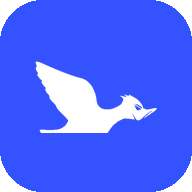
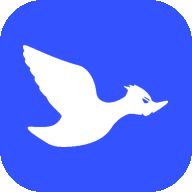
De hele eend
De iconen komen nu uit het volledige embleem, gesneden op de omtrek van de vorm
zelf in plaats van op een ingetypt kader. De bron gaat mee in de repo.

Claude-Session: https://claude.ai/code/session_01E8FeyyHmC5AiNKT8Le9tkN

diff --git a/scripts/maak-iconen.py b/scripts/maak-iconen.py
@@ -24,29 +24,34 @@ from PIL import Image, ImageDraw
 BLAUW = (0x34, 0x52, 0xFE)
 WIT = (255, 255, 255)
 
-# The duck sits in the middle of the badge; the ring of lettering around it is
-# a separate shape. Keep only the blob that covers the centre of the image.
-DREMPEL = 128
+# The duck sits in the middle of the badge. Whatever surrounds it — a ring of
+# lettering, or nothing at all — is judged against the colour of the border.
+AFSTAND = 60.0
 
 
 def inktmasker(bron: Image.Image) -> np.ndarray:
-    """True where there is ink: dark pixels, or opaque ones on a clear ground."""
+    """True where the drawing is, whichever way round the colours run.
+
+    A badge can be black on white, white on blue, or a shape on nothing. So the
+    ground is read from the border of the image and everything far enough from
+    that colour counts as drawing. That way the same code cuts out a dark duck
+    and a light one.
+    """
     rgba = bron.convert("RGBA")
-    arr = np.asarray(rgba).astype(np.int16)
+    arr = np.asarray(rgba).astype(np.float64)
     alpha = arr[:, :, 3]
-    grijs = arr[:, :, :3].mean(axis=2)
     if (alpha < 250).mean() > 0.05:
         return alpha > 128
-    return grijs < DREMPEL
+    rand = np.concatenate([arr[0, :, :3], arr[-1, :, :3], arr[:, 0, :3], arr[:, -1, :3]])
+    grond = np.median(rand, axis=0)
+    return np.linalg.norm(arr[:, :, :3] - grond, axis=2) > AFSTAND
 
 
-def grootste_blob_bij_midden(masker: np.ndarray) -> np.ndarray:
-    """The connected component nearest the centre, grown with a flood fill."""
+def _componenten(masker: np.ndarray) -> list[np.ndarray]:
+    """Every connected run of drawing, biggest first."""
     h, w = masker.shape
     bezocht = np.zeros_like(masker, dtype=bool)
-    beste: np.ndarray | None = None
-    beste_score = -1.0
-    mid = np.array([h / 2, w / 2])
+    gevonden: list[np.ndarray] = []
     ys, xs = np.nonzero(masker)
     for y0, x0 in zip(ys, xs):
         if bezocht[y0, x0]:
@@ -63,16 +68,41 @@ def grootste_blob_bij_midden(masker: np.ndarray) -> np.ndarray:
                     bezocht[ny, nx] = True
                     blob[ny, nx] = True
                     stapel.append((ny, nx))
-        oppervlak = blob.sum()
-        by, bx = np.nonzero(blob)
-        zwaartepunt = np.array([by.mean(), bx.mean()])
-        afstand = np.linalg.norm(zwaartepunt - mid) / max(h, w)
-        score = oppervlak * (1.0 - min(afstand, 0.99))
-        if score > beste_score:
-            beste_score, beste = score, blob
-    if beste is None:
-        raise SystemExit("geen inkt gevonden in de bron")
-    return beste
+        gevonden.append(blob)
+    gevonden.sort(key=lambda b: int(b.sum()), reverse=True)
+    return gevonden
+
+
+def _kader(blob: np.ndarray) -> tuple[int, int, int, int]:
+    ys, xs = np.nonzero(blob)
+    return int(xs.min()), int(ys.min()), int(xs.max()) + 1, int(ys.max()) + 1
+
+
+def eendmasker(masker: np.ndarray) -> np.ndarray:
+    """The bird: the biggest shape, plus the loose bits that lie inside it.
+
+    A beak tip or a crest feather can be cut off from the body by a hairline of
+    background. Dropping those would eat the bird piece by piece, so anything
+    whose box falls inside the body's box comes along.
+    """
+    delen = _componenten(masker)
+    if not delen:
+        raise SystemExit("geen tekening gevonden in de bron")
+    romp = delen[0]
+    x0, y0, x1, y1 = _kader(romp)
+    marge_x, marge_y = (x1 - x0) * 0.04, (y1 - y0) * 0.04
+    samen = romp.copy()
+    for deel in delen[1:]:
+        dx0, dy0, dx1, dy1 = _kader(deel)
+        binnen = (
+            dx0 >= x0 - marge_x
+            and dy0 >= y0 - marge_y
+            and dx1 <= x1 + marge_x
+            and dy1 <= y1 + marge_y
+        )
+        if binnen:
+            samen |= deel
+    return samen
 
 
 def vierkant_met_marge(kader: tuple[int, int, int, int], marge: float) -> tuple[int, int, int, int]:
@@ -114,9 +144,8 @@ def main() -> None:
     uit = Path("public")
     bron = Image.open(bron_pad)
     masker = inktmasker(bron)
-    blob = grootste_blob_bij_midden(masker)
-    ys, xs = np.nonzero(blob)
-    kader = (int(xs.min()), int(ys.min()), int(xs.max()) + 1, int(ys.max()) + 1)
+    blob = eendmasker(masker)
+    kader = _kader(blob)
     raakt = [
         naam
         for naam, waar in (
@@ -143,11 +172,12 @@ def main() -> None:
     print("controlebeeld", controle_pad)
 
     for naam, maat, radius, vulling in (
-        ("icoon-192.png", 192, 0.22, 0.66),
-        ("icoon-512.png", 512, 0.22, 0.66),
-        ("apple-touch-icon.png", 180, 0.0, 0.66),
+        ("icoon-192.png", 192, 0.22, 0.76),
+        ("icoon-512.png", 512, 0.22, 0.76),
+        # iOS rounds the corners itself, so leave it a little more room.
+        ("apple-touch-icon.png", 180, 0.0, 0.70),
         # Maskable: everything outside the middle 80% can be cropped away.
-        ("icoon-maskable-512.png", 512, 0.0, 0.52),
+        ("icoon-maskable-512.png", 512, 0.0, 0.60),
     ):
         teken(silhouet, maat, radius, vulling).save(uit / naam)
         print("geschreven", uit / naam)

diff --git a/docs/decisions.md b/docs/decisions.md
@@ -638,3 +638,17 @@ mobiele weergave bestaat.
 de frames erboven. Dat kost hoogte, en die is er: een half veld rechtop is
 breedtegebonden en vult de hoogte toch nooit helemaal. Liggend blijft alles op
 één regel, want daar past het.
+
+## 2026-09-05 — De eend opnieuw, nu uit haar eigen omtrek
+
+De eerste iconen waren onderaan vlak afgesneden: ik had het kader met de hand
+ingetypt en het resultaat niet bekeken. Nu snijdt `scripts/maak-iconen.py` de
+vorm uit haar eigen omtrek, waarschuwt het als die omtrek de rand van de bron
+raakt, en legt het een controlebeeld neer met het gevonden kader erop.
+
+De bron staat in `scripts/bron-embleem.png`. Ze hoort in de repo: de vorige is
+zoekgeraakt toen de werkomgeving opnieuw startte, en het clublogo staat nergens
+online in bruikbare resolutie — op de clubsite is het zeventig pixels breed.
+
+De eend vult 76 procent van de tegel bij de gewone iconen en 60 bij de
+maskable, waar alles buiten de middelste tachtig procent weggesneden kan worden.
